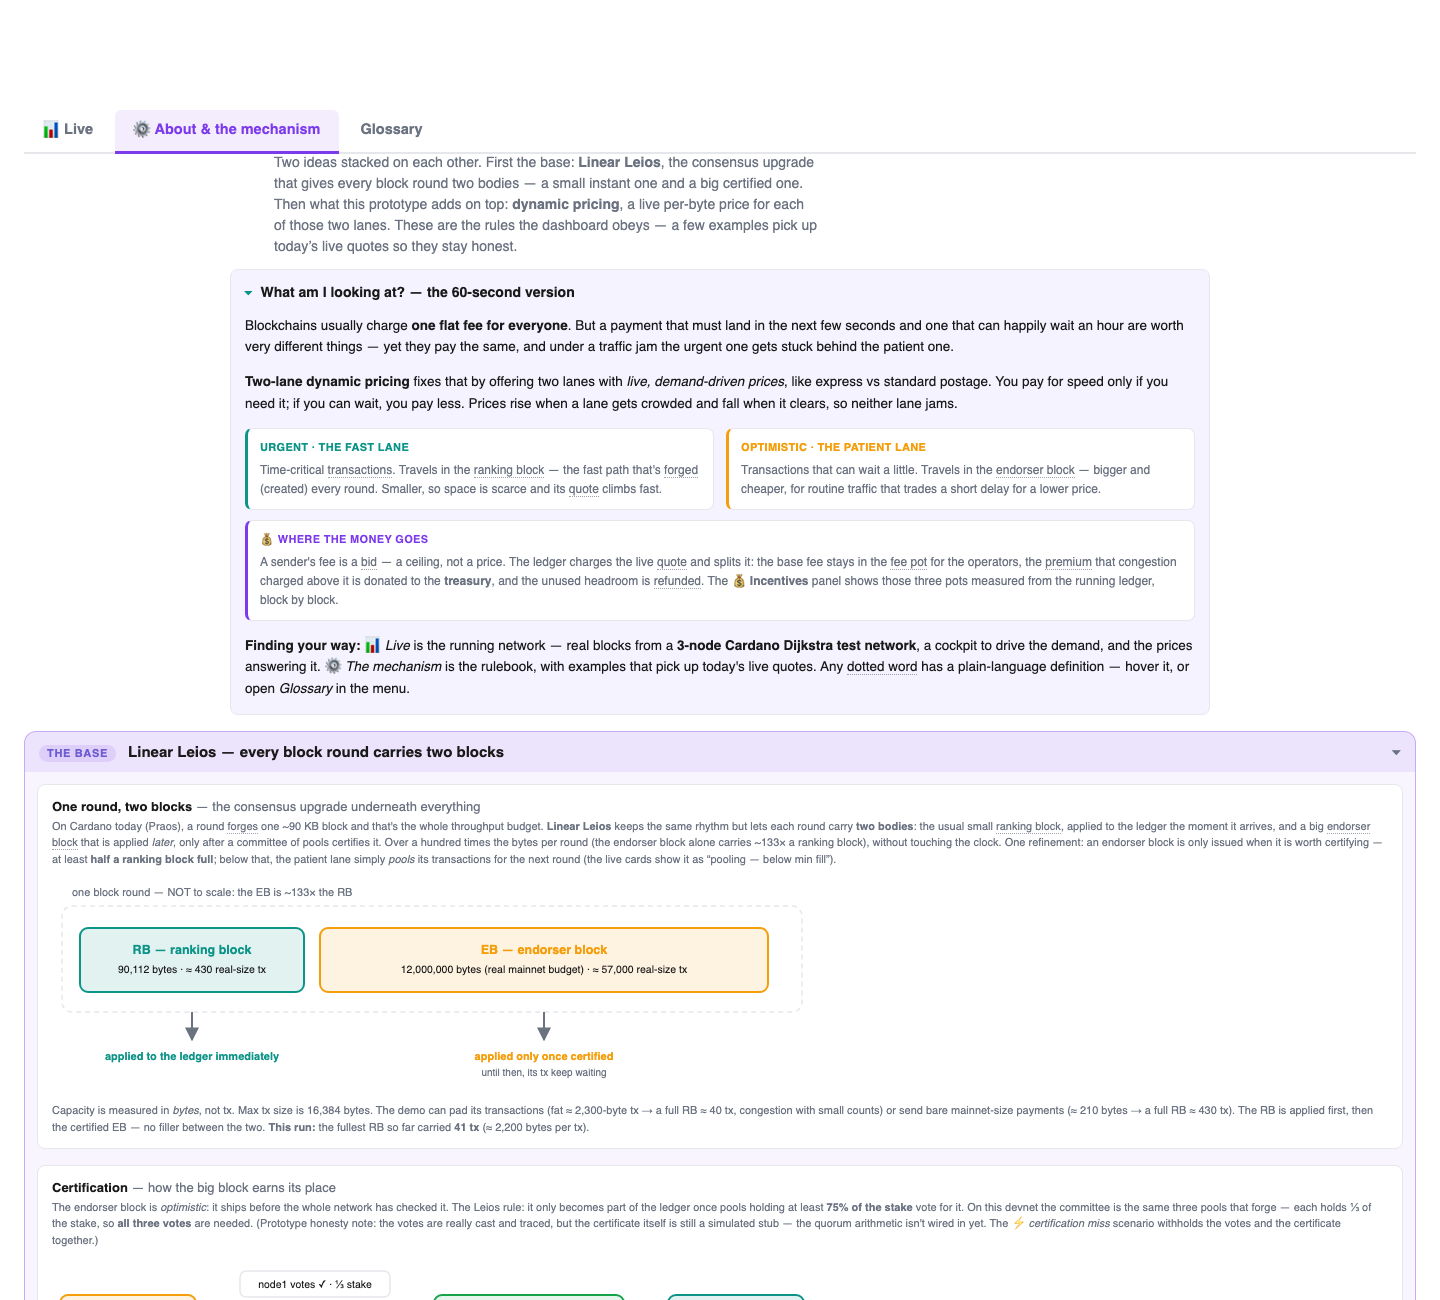
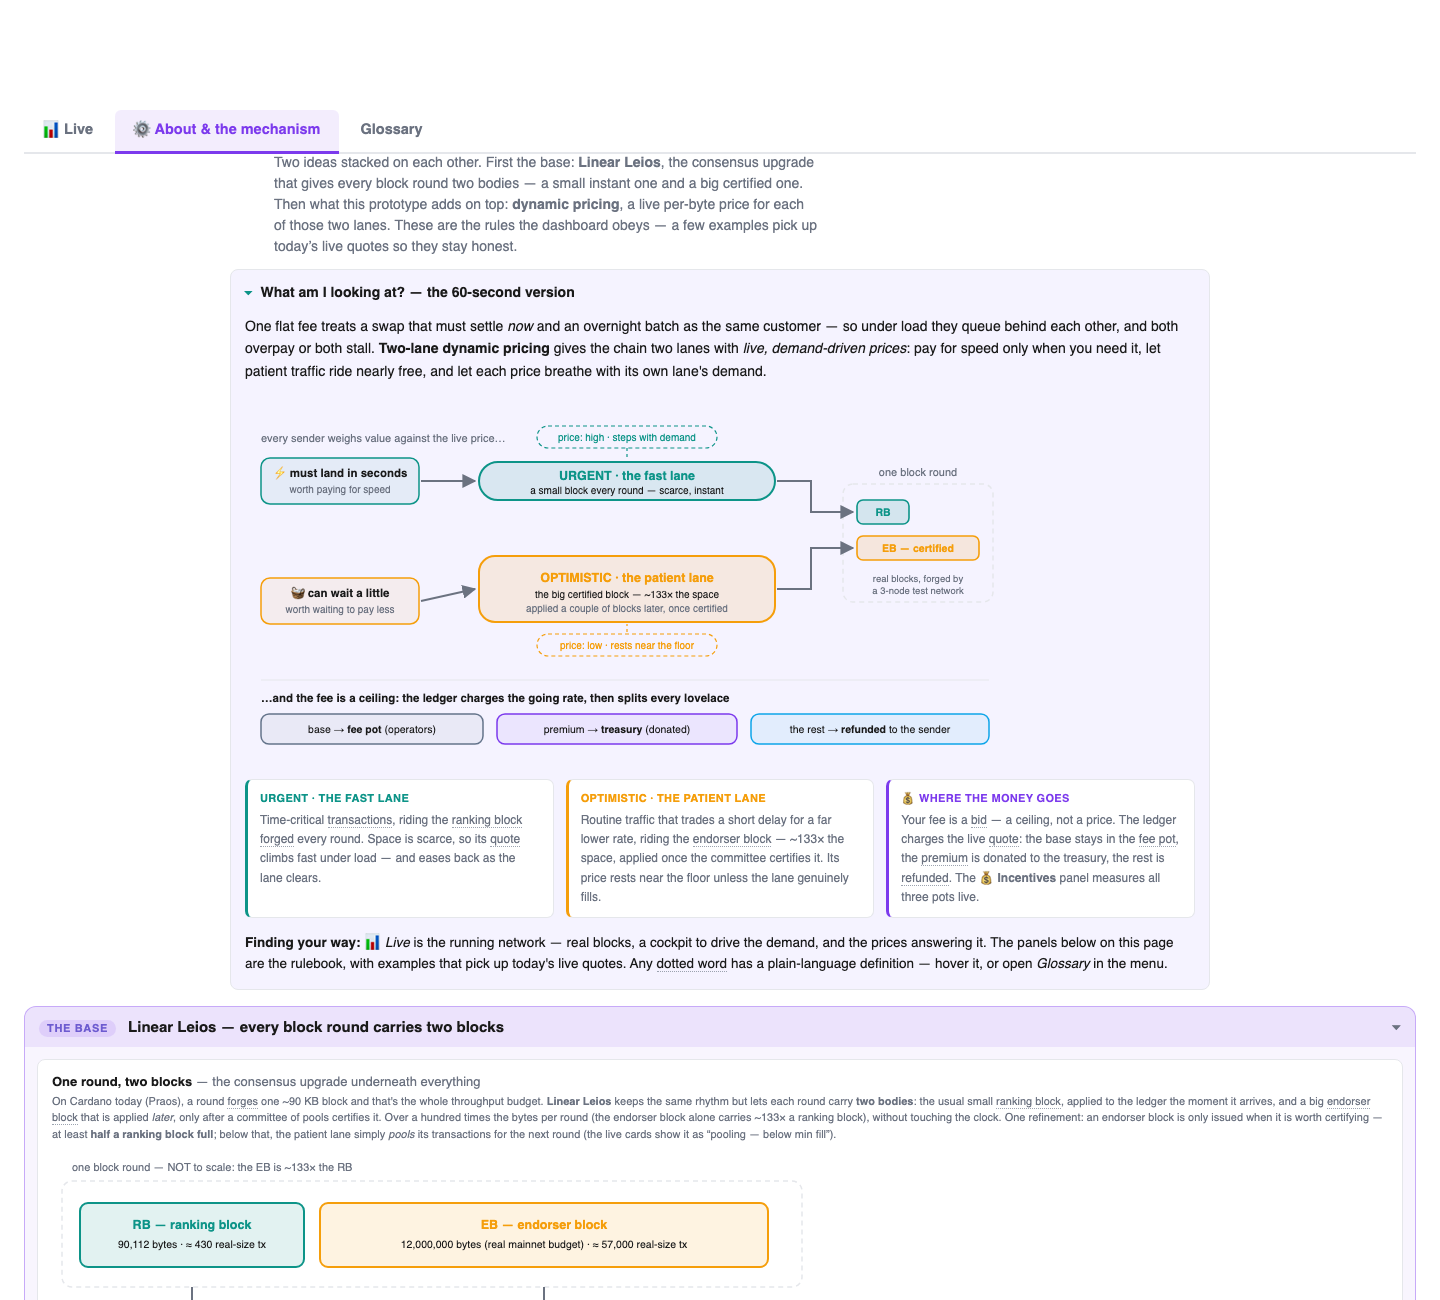
About: one visual story instead of stacked prose
The 60-second card now leads with a single diagram in the page's own visual
language: senders weighing value against the live price, the two lane pipes
with their breathing price tags, the block round they land in, and the
three-way fee split underneath — base to the fee pot, premium to the
treasury, the rest refunded. Three tightened cards and the wayfinding line
follow. The Incentives panel also gains the honesty note the pots beg for:
the demo bids a flat generous ceiling on every transaction (chain-safety
against eviction) while most traffic rides the patient lane near the floor,
which is why refunds dwarf the pots — a real sender would bid just above
the quote. Screenshot refreshed.

Changed region(s): [[0.0, 0.2462, 1.0, 1.0]]

diff --git a/demo/index.html b/demo/index.html
@@ -368,37 +368,101 @@ details.subsec > *:not(summary):last-child{margin-bottom:12px}
   <details class="intro" id="sec-about" open>
     <summary>What am I looking at? — the 60-second version</summary>
     <div class="body">
-      <p style="margin-top:0">Blockchains usually charge <strong>one flat fee for everyone</strong>. But a payment that must
-      land in the next few seconds and one that can happily wait an hour are worth very different things — yet they pay
-      the same, and under a traffic jam the urgent one gets stuck behind the patient one.</p>
-      <p><strong>Two-lane dynamic pricing</strong> fixes that by offering two lanes with <em>live, demand-driven prices</em>,
-      like express vs standard postage. You pay for speed only if you need it; if you can wait, you pay less. Prices rise
-      when a lane gets crowded and fall when it clears, so neither lane jams.</p>
-      <div class="lanes">
+      <p style="margin-top:0;font-size:14px">One flat fee treats a swap that must settle <em>now</em> and an overnight batch
+      as the same customer — so under load they queue behind each other, and both overpay or both stall.
+      <strong>Two-lane dynamic pricing</strong> gives the chain two lanes with <em>live, demand-driven prices</em>:
+      pay for speed only when you need it, let patient traffic ride nearly free, and let each price breathe with
+      its own lane's demand.</p>
+
+      <div class="loop-wrap">
+        <svg viewBox="0 0 760 366" width="760" height="366" role="img"
+             aria-label="two lanes with live prices: senders choose a lane, blocks carry them, the fee splits three ways">
+          <defs>
+            <marker id="arrow-about" viewBox="0 0 10 10" refX="9" refY="5" markerWidth="7" markerHeight="7" orient="auto-start-reverse">
+              <path d="M0,0 L10,5 L0,10 z" fill="var(--muted)"></path>
+            </marker>
+          </defs>
+
+          <!-- senders -->
+          <text x="16" y="46" font-size="11" fill="var(--muted)">every sender weighs value against the live price…</text>
+          <rect x="16" y="62" width="158" height="46" rx="9" fill="var(--urgent)" fill-opacity="0.07" stroke="var(--urgent)" stroke-width="1.5"></rect>
+          <text x="95" y="81" text-anchor="middle" font-size="11.5" font-weight="650" fill="var(--text)">⚡ must land in seconds</text>
+          <text x="95" y="97" text-anchor="middle" font-size="10" fill="var(--muted)">worth paying for speed</text>
+          <rect x="16" y="182" width="158" height="46" rx="9" fill="var(--optimistic)" fill-opacity="0.07" stroke="var(--optimistic)" stroke-width="1.5"></rect>
+          <text x="95" y="201" text-anchor="middle" font-size="11.5" font-weight="650" fill="var(--text)">🧺 can wait a little</text>
+          <text x="95" y="217" text-anchor="middle" font-size="10" fill="var(--muted)">worth waiting to pay less</text>
+
+          <!-- fast lane -->
+          <rect x="234" y="66" width="296" height="38" rx="19" fill="var(--urgent)" fill-opacity="0.12" stroke="var(--urgent)" stroke-width="2"></rect>
+          <text x="382" y="84" text-anchor="middle" font-size="12.5" font-weight="650" fill="var(--urgent)">URGENT · the fast lane</text>
+          <text x="382" y="98" text-anchor="middle" font-size="10" fill="var(--text)">a small block every round — scarce, instant</text>
+          <rect x="292" y="30" width="180" height="22" rx="11" fill="none" stroke="var(--urgent)" stroke-width="1.2" stroke-dasharray="4 3"></rect>
+          <text x="382" y="45" text-anchor="middle" font-size="10" fill="var(--urgent)">price: high · steps with demand</text>
+          <path d="M382,52 L382,63" stroke="var(--urgent)" stroke-width="1.2" stroke-dasharray="3 3" fill="none"></path>
+
+          <!-- patient lane -->
+          <rect x="234" y="160" width="296" height="66" rx="16" fill="var(--optimistic)" fill-opacity="0.12" stroke="var(--optimistic)" stroke-width="2"></rect>
+          <text x="382" y="186" text-anchor="middle" font-size="12.5" font-weight="650" fill="var(--optimistic)">OPTIMISTIC · the patient lane</text>
+          <text x="382" y="202" text-anchor="middle" font-size="10" fill="var(--text)">the big certified block — ~133× the space</text>
+          <text x="382" y="216" text-anchor="middle" font-size="10" fill="var(--muted)">applied a couple of blocks later, once certified</text>
+          <rect x="292" y="238" width="180" height="22" rx="11" fill="none" stroke="var(--optimistic)" stroke-width="1.2" stroke-dasharray="4 3"></rect>
+          <text x="382" y="253" text-anchor="middle" font-size="10" fill="var(--optimistic)">price: low · rests near the floor</text>
+          <path d="M382,236 L382,228" stroke="var(--optimistic)" stroke-width="1.2" stroke-dasharray="3 3" fill="none"></path>
+
+          <!-- choices -->
+          <path d="M176,85 L230,85" stroke="var(--muted)" stroke-width="2" fill="none" marker-end="url(#arrow-about)"></path>
+          <path d="M176,205 L230,193" stroke="var(--muted)" stroke-width="2" fill="none" marker-end="url(#arrow-about)"></path>
+
+          <!-- the chain -->
+          <rect x="598" y="88" width="150" height="118" rx="10" fill="none" stroke="var(--border)" stroke-width="1.5" stroke-dasharray="5 4"></rect>
+          <text x="673" y="80" text-anchor="middle" font-size="11" fill="var(--muted)">one block round</text>
+          <rect x="612" y="104" width="52" height="24" rx="6" fill="var(--rb)" fill-opacity="0.14" stroke="var(--rb)" stroke-width="1.6"></rect>
+          <text x="638" y="120" text-anchor="middle" font-size="10.5" font-weight="650" fill="var(--rb)">RB</text>
+          <rect x="612" y="140" width="122" height="24" rx="6" fill="var(--eb)" fill-opacity="0.14" stroke="var(--eb)" stroke-width="1.6"></rect>
+          <text x="673" y="156" text-anchor="middle" font-size="10.5" font-weight="650" fill="var(--eb)">EB — certified</text>
+          <text x="673" y="186" text-anchor="middle" font-size="9.5" fill="var(--muted)">real blocks, forged by</text>
+          <text x="673" y="198" text-anchor="middle" font-size="9.5" fill="var(--muted)">a 3-node test network</text>
+          <path d="M532,85 L566,85 L566,116 L608,116" stroke="var(--muted)" stroke-width="2" fill="none" marker-end="url(#arrow-about)"></path>
+          <path d="M532,193 L566,193 L566,152 L608,152" stroke="var(--muted)" stroke-width="2" fill="none" marker-end="url(#arrow-about)"></path>
+
+          <!-- the money -->
+          <line x1="16" y1="284" x2="744" y2="284" stroke="var(--border)" stroke-width="1"></line>
+          <text x="16" y="306" font-size="11.5" font-weight="650" fill="var(--text)">…and the fee is a ceiling: the ledger charges the going rate, then splits every lovelace</text>
+          <rect x="16" y="318" width="222" height="30" rx="8" fill="#64748b" fill-opacity="0.08" stroke="#64748b" stroke-width="1.5"></rect>
+          <text x="127" y="337" text-anchor="middle" font-size="10.5" fill="var(--text)">base → <tspan font-weight="650">fee pot</tspan> (operators)</text>
+          <rect x="252" y="318" width="240" height="30" rx="8" fill="#7c3aed" fill-opacity="0.08" stroke="#7c3aed" stroke-width="1.5"></rect>
+          <text x="372" y="337" text-anchor="middle" font-size="10.5" fill="var(--text)">premium → <tspan font-weight="650">treasury</tspan> (donated)</text>
+          <rect x="506" y="318" width="238" height="30" rx="8" fill="#0ea5e9" fill-opacity="0.08" stroke="#0ea5e9" stroke-width="1.5"></rect>
+          <text x="625" y="337" text-anchor="middle" font-size="10.5" fill="var(--text)">the rest → <tspan font-weight="650">refunded</tspan> to the sender</text>
+        </svg>
+      </div>
+
+      <div class="lanes" style="grid-template-columns:repeat(auto-fit,minmax(230px,1fr))">
         <div class="lane-card" style="border-left:3px solid var(--urgent)">
           <h3 class="tag" style="color:var(--urgent)">Urgent · the fast lane</h3>
-          <p>Time-critical <span data-term="transaction">transactions</span>. Travels in the <span data-term="RB">ranking block</span> —
-          the fast path that's <span data-term="forge">forged</span> (created) every round. Smaller, so space is scarce and its
-          <span data-term="quote">quote</span> climbs fast.</p>
+          <p>Time-critical <span data-term="transaction">transactions</span>, riding the
+          <span data-term="RB">ranking block</span> <span data-term="forge">forged</span> every round. Space is scarce,
+          so its <span data-term="quote">quote</span> climbs fast under load — and eases back as the lane clears.</p>
         </div>
         <div class="lane-card" style="border-left:3px solid var(--optimistic)">
           <h3 class="tag" style="color:var(--optimistic)">Optimistic · the patient lane</h3>
-          <p>Transactions that can wait a little. Travels in the <span data-term="EB">endorser block</span> — bigger and
-          cheaper, for routine traffic that trades a short delay for a lower price.</p>
+          <p>Routine traffic that trades a short delay for a far lower rate, riding the
+          <span data-term="EB">endorser block</span> — ~133× the space, applied once the committee certifies it.
+          Its price rests near the floor unless the lane genuinely fills.</p>
+        </div>
+        <div class="lane-card" style="border-left:3px solid #7c3aed">
+          <h3 class="tag" style="color:#7c3aed">💰 Where the money goes</h3>
+          <p>Your fee is a <span data-term="bid">bid</span> — a ceiling, not a price. The ledger charges the live
+          <span data-term="quote">quote</span>: the base stays in the <span data-term="fee pot">fee pot</span>, the
+          <span data-term="premium">premium</span> is donated to the treasury, the rest is
+          <span data-term="refund">refunded</span>. The 💰 <strong>Incentives</strong> panel measures all three pots live.</p>
         </div>
       </div>
-      <div class="lane-card" style="border-left:3px solid #7c3aed;margin:10px 0 4px">
-        <h3 class="tag" style="color:#7c3aed">💰 Where the money goes</h3>
-        <p>A sender's fee is a <span data-term="bid">bid</span> — a ceiling, not a price. The ledger charges the live
-        <span data-term="quote">quote</span> and splits it: the base fee stays in the <span data-term="fee pot">fee pot</span>
-        for the operators, the <span data-term="premium">premium</span> that congestion charged above it is donated to the
-        <strong>treasury</strong>, and the unused headroom is <span data-term="refund">refunded</span>. The 💰
-        <strong>Incentives</strong> panel shows those three pots measured from the running ledger, block by block.</p>
-      </div>
+
       <p style="margin-bottom:0"><strong>Finding your way:</strong> 📊 <em>Live</em> is the running network —
-      real blocks from a <strong>3-node Cardano Dijkstra test network</strong>, a cockpit to drive the demand, and the
-      prices answering it. ⚙️ <em>The mechanism</em> is the rulebook, with examples that pick up today's live quotes.
-      Any <span class="term" tabindex="0" data-def="Words with a dotted underline have a plain-language definition — hover them on desktop, or open the Glossary tab at the top on any device.">dotted word</span>
+      real blocks, a cockpit to drive the demand, and the prices answering it. The panels below on this page are
+      the rulebook, with examples that pick up today's live quotes. Any
+      <span class="term" tabindex="0" data-def="Words with a dotted underline have a plain-language definition — hover them on desktop, or open the Glossary tab at the top on any device.">dotted word</span>
       has a plain-language definition — hover it, or open <em>Glossary</em> in the menu.</p>
     </div>
   </details>
@@ -878,6 +942,10 @@ details.subsec > *:not(summary):last-child{margin-bottom:12px}
       ledger state once per block — measured pots, not a model.</p>
       <div class="nowgrid" id="incgrid" style="grid-template-columns:auto 1fr 1fr 1fr"></div>
       <div class="hint" id="inc-quant" style="line-height:1.6;margin-top:8px"></div>
+      <p class="hint" style="font-size:12px;margin:6px 0 0">Why refunds dwarf the pots here: every simulated sender bids a flat,
+      deliberately generous ceiling (the demo's <code>FEE</code>, 10 ₳) so a rising quote never evicts a chained transaction —
+      while most traffic rides the patient lane near the floor. A real sender would bid just above the quote and get a small
+      refund; the split itself is the mechanism working as designed.</p>
     </details>
 
   <details class="panel" id="pane-history" open>